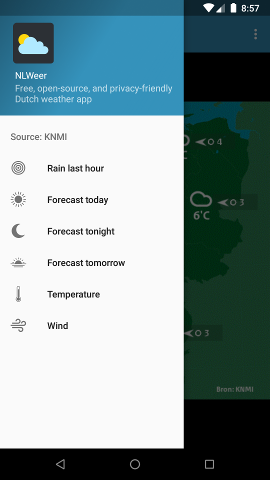
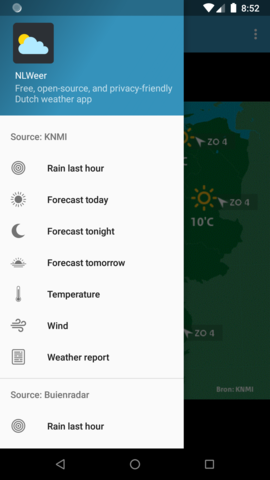
Updated to version 1.3.0

diff --git a/README.md b/README.md
@@ -10,8 +10,9 @@ NLWeer is a simple open-source and privacy-friendly Dutch weather app for Androi
 
 This is what it looks like:
 
-![NLWeer KNMI rain radar](metadata/en-US/images/phoneScreenshots/rain_radar.png) ![NLWeer KNMI navigation menu](metadata/en-US/images/phoneScreenshots/navigation_menu.png) ![NLWeer KNMI forecast](metadata/en-US/images/phoneScreenshots/forecast.png)
+![NLWeer KNMI rain radar](metadata/en-US/images/phoneScreenshots/rain_radar.png) ![NLWeer navigation menu](metadata/en-US/images/phoneScreenshots/navigation_menu.png) ![NLWeer KNMI forecast](metadata/en-US/images/phoneScreenshots/forecast.png)
 
+![NLWeer settings](metadata/en-US/images/phoneScreenshots/settings.png) ![NLWeer navigation menu (bottom)](metadata/en-US/images/phoneScreenshots/navigation_menu_bottom.png) ![NLWeer Buienradar prediction](metadata/en-US/images/phoneScreenshots/rain_prediction.png)
 
 ## Reasons to use NLWeer
 
@@ -29,6 +30,7 @@ Features of NLWeer:
 * Includes weather information from multiple sources
 * Three options for localisation (shown as a red circle): manual lon/lat coordinates, mobile service provider, or GPS
 * Includes a precipitation prediction graph on your current location
+* Languages: English and Dutch
 
 
 ## How to use NLWeer
